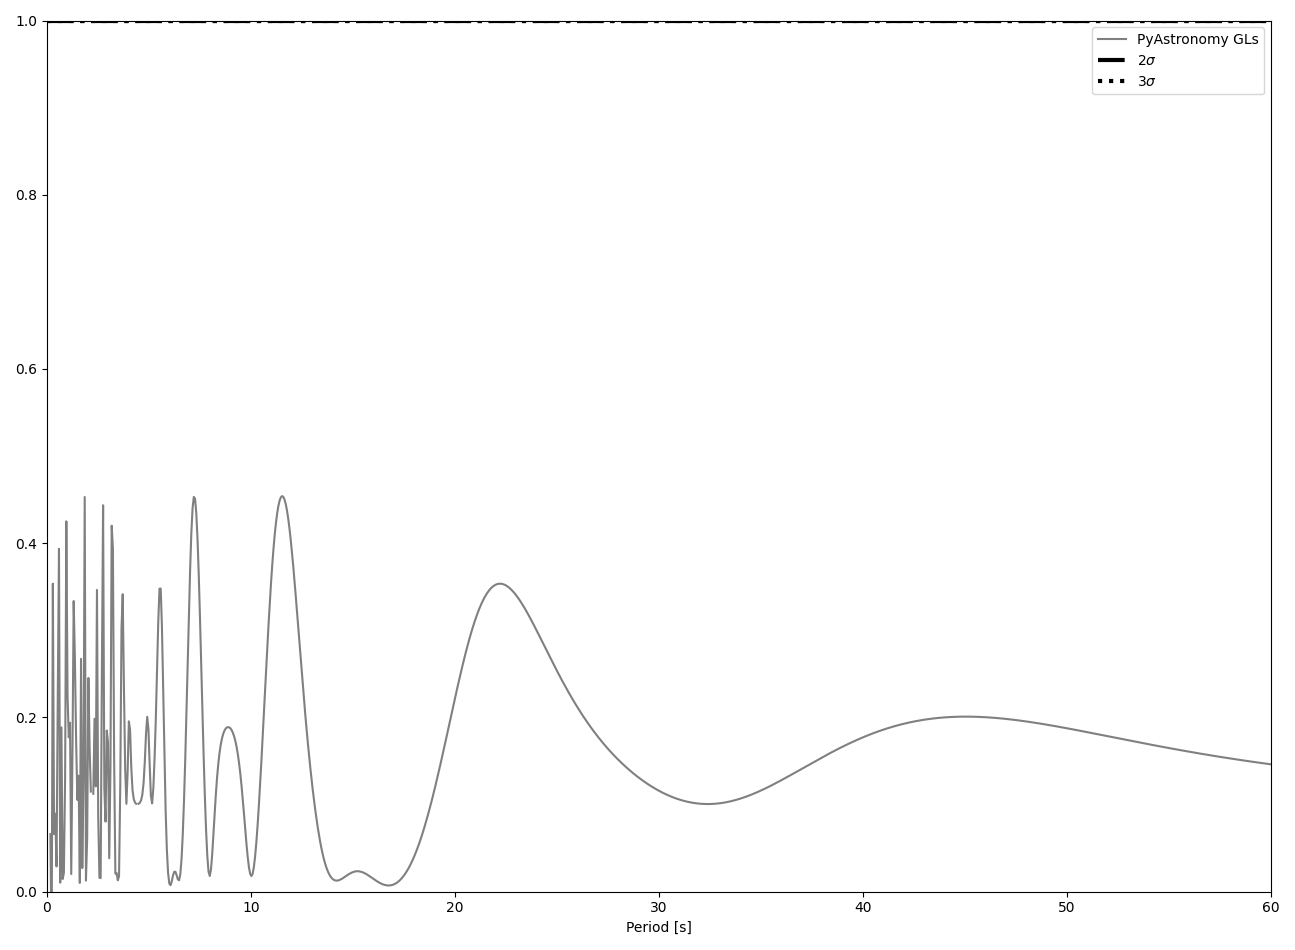
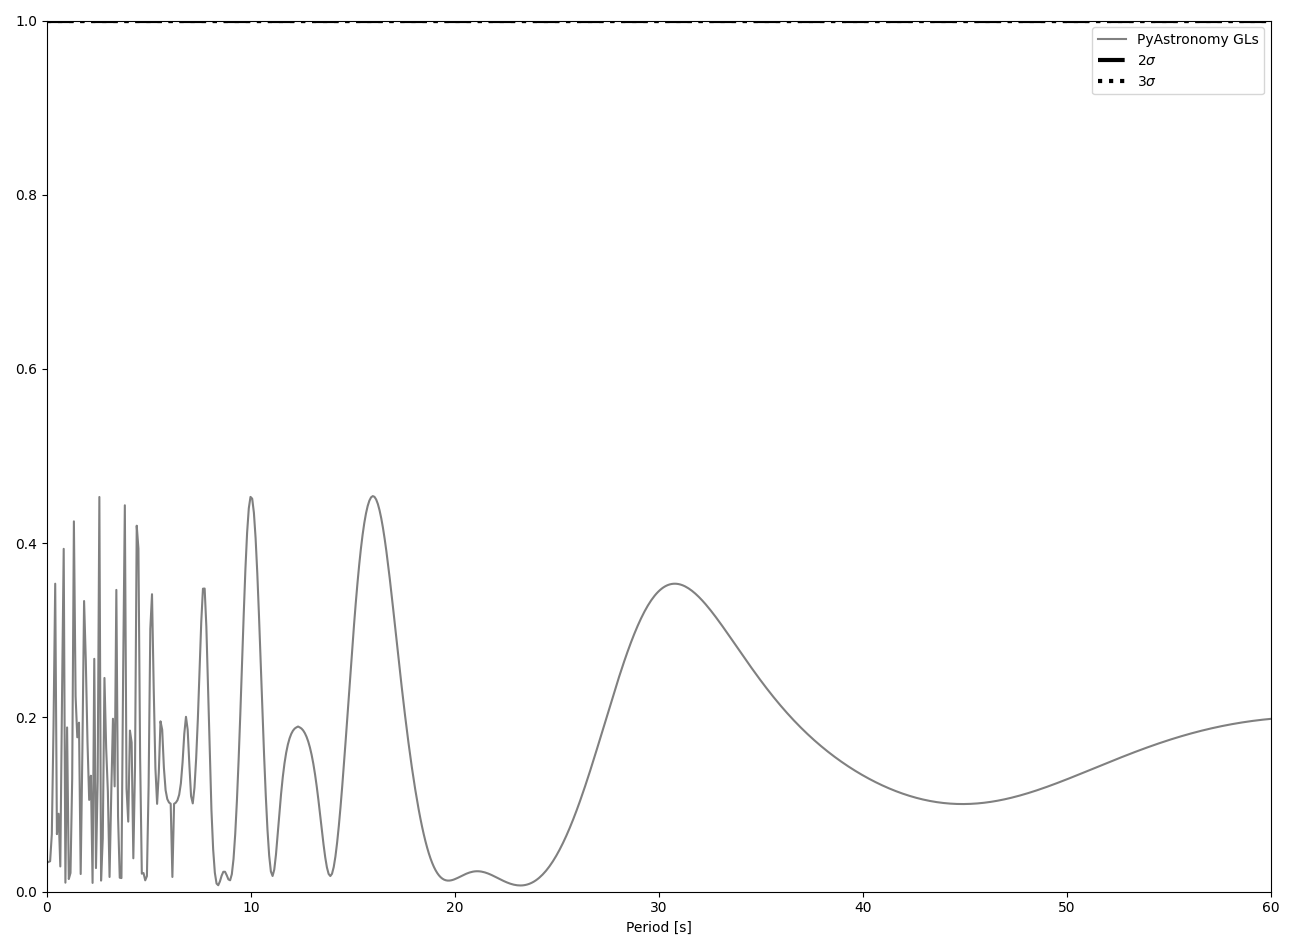
FF14 tests

diff --git a/bruh_rewrite.py b/bruh_rewrite.py
@@ -67,12 +67,11 @@ for d in dir_names:
 				if not isdir (ld+'/lightcurve_figs/'): os.mkdir (ld+'/lightcurve_figs/')
 				if not isdir (ld+'/periodogram_figs/'): os.mkdir (ld+'/periodogram_figs/')
 
-				fapLevels = np.array([0.05, 0.005])
-				periods = np.linspace (0 , 60 , 1000)
+				fapLevels = np.array([ 0.35, 0.05, 0.005])
+				seconds_from_start = (jd - jd[0]) * 24 * 3600
+				periods = np.linspace (0 , np.max(seconds_from_start) , 1000)
 
-
-				# seconds_from_start = (jd - jd[0]) * 24 * 3600
-				seconds_from_start = np.linspace ( 0 , 60 , len(mag))
+				# seconds_from_start = np.linspace ( 0 , 60 , len(mag))
 				fig_lc , ax_lc = plt.subplots(figsize=((paperwidth*1.15) - 2 * margin, (paperheight*1.15) - 2 * margin))
 				unbinned = ax_lc.errorbar( seconds_from_start , mag - np.mean(mag) , mag_err , fmt='s' , markerfacecolor='blue' , markeredgecolor='black' , ecolor='black' , capthick=2 , markersize=7 , capsize=3 )
 				ax_lc.set_ylim([-1,1])
@@ -82,22 +81,33 @@ for d in dir_names:
 				plt.tight_layout()
 				plt.savefig(ld+'/lightcurve_figs/asteroid_lightcurve-bin1.png')
 
-				clp = pyPeriod.Gls(( seconds_from_start , flux , flux_err ) , )
+				# clp = pyPeriod.Gls(( seconds_from_start , flux , flux_err ) , freq=1/periods , verbose=True )
+				clp = pyPeriod.Gls(( seconds_from_start , flux , flux_err )  , verbose=True )
 				plevel = clp.powerLevel(fapLevels)
+
+				print(1/clp.freq)
+
+
 
 				fig_p , ax_p = plt.subplots(figsize=((paperwidth*1.15) - 2 * margin, (paperheight*1.15) - 2 * margin))
 				ax_p.plot( 1/clp.freq  , clp.power, color='grey' , label='PyAstronomy GLs')
 				# ax_p.plot( period , power )
-				ax_p.plot([min(1/clp.freq), max(1/clp.freq)], [plevel[0]]*2, '-.', c='black',lw=3,label =r'$2\sigma$')
-				ax_p.plot([min(1/clp.freq), max(1/clp.freq)], [plevel[1]]*2, ':', c='black',lw=3,label =r'$3\sigma$')
+				ax_p.plot([min(1/clp.freq), max(1/clp.freq)], [plevel[0]]*2, '-.', c='black',lw=3,label =r'$1\sigma$')
+				ax_p.plot([min(1/clp.freq), max(1/clp.freq)], [plevel[1]]*2, ':', c='black',lw=3,label =r'$2\sigma$')
+				ax_p.plot([min(1/clp.freq), max(1/clp.freq)], [plevel[2]]*2, '..', c='black',lw=3,label =r'$3\sigma$')
+
 				ax_p.legend()
 				ax_p.set_xlabel('Period [s]')
-				ax_p.set_xlim([0 , 60])
+				# ax_p.set_xlim([0 , 60])
+				ax_p.set_xscale('log')
 				ax_p.set_ylim([0 , 1])
 				plt.tight_layout()
 				plt.savefig(ld+'/periodogram_figs/periodogram_bin1.png')
 
 				print( f'PyAstronomy GLs best period: {1/clp.freq[np.argmax(clp.power)]}s'  )
+				plt.show()
+
+				if True: break
 
 
 				t_2 , lc_2 , lc_err_2 = bin_lightcurve ( seconds_from_start , flux , flux_err  , 2)
@@ -221,5 +231,5 @@ for d in dir_names:
 				plt.show()
 			except:
 				continue
-
+		if True: break
 			
